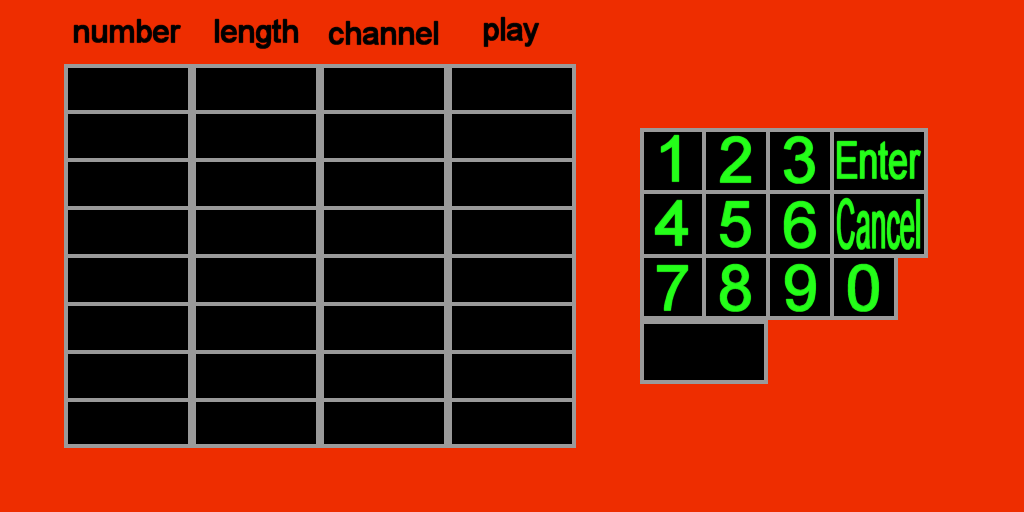
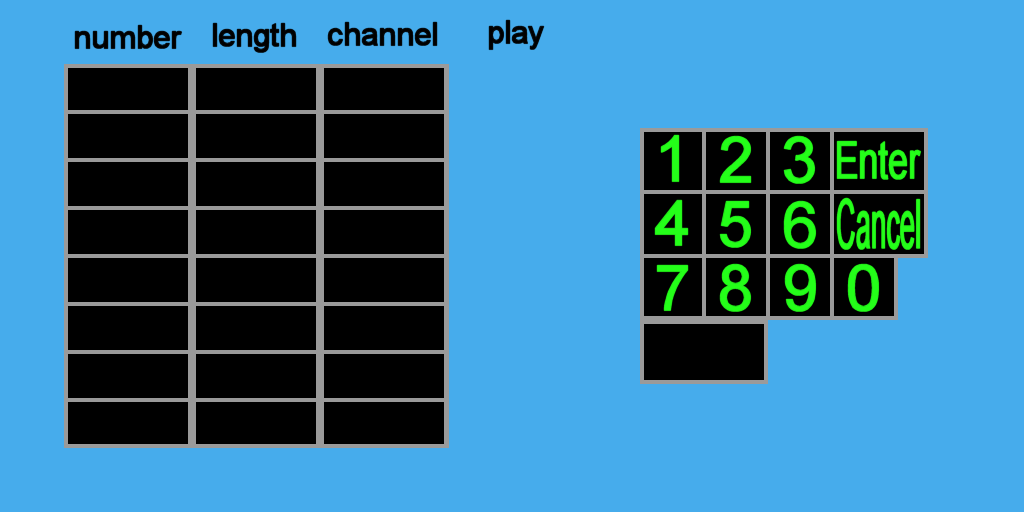
General improvements to the GUI

diff --git a/PythonUI/multigrid.py b/PythonUI/multigrid.py
@@ -1,6 +1,5 @@
 import os, pygame, __main__
 
-
 class GridTrack():
 
     def __init__(self):
@@ -11,8 +10,8 @@ class GridTrack():
         self.navButtonWide1, self.navButtonWide1rect = __main__.load_image('navButtonWide1.png','buttons')
         self.navButtonWide2, self.navButtonWide2rect = __main__.load_image('navButtonWide2.png','buttons')
         self.optionsbg, self.optionsbgrect           = __main__.load_image('optionsBG.png','backgrounds')
-        self.gobutton, self.gobuttonrect             = __main__.load_image('gobutton.png','buttons')
-        self.stopbutton, self.stopbuttonrect         = __main__.load_image('stopbutton.png','buttons')
+        self.gobutton, self.gobuttonrect             = __main__.load_image('optsButtonGreen.png','buttons')
+        self.stopbutton, self.stopbuttonrect         = __main__.load_image('optsButtonRed.png','buttons')
         
         self.trackgrid   = [[0 for row in range(8)] for col in range(16)]
         self.patterngrid = [0 for col in range(8)]
@@ -136,10 +135,10 @@ class GridTrack():
     def drawPatternSeq(self):
         for col in range(8):
             for row in range(8):
-                if (self.patterngrid[col]) == row:
-                    self.trackSurface.blit(self.button1, ((col * 64),(row * 64)))
-                else:
+                if (self.patterngrid[col]) == 7 - row:
                     self.trackSurface.blit(self.button2, ((col * 64),(row * 64)))
+                else:
+                    self.trackSurface.blit(self.button1, ((col * 64),(row * 64)))
 
     def drawPlayButton(self):
         buttonval = __main__.mainObj.menu.playingTracks[__main__.mainObj.menu.trackNo]
@@ -153,11 +152,11 @@ class GridTrack():
             if seqlength < self.patternSeqLength:
                 xval = ((seqlength * 64) + (8 * 64))
                 yval = (7 * 64)
-                self.trackSurface.blit(self.button1, (xval,yval))
+                self.trackSurface.blit(self.button2, (xval,yval))
             else:
                 xval = ((seqlength * 64) + (8 * 64))
                 yval = (7 * 64)
-                self.trackSurface.blit(self.button2, (xval,yval))
+                self.trackSurface.blit(self.button1, (xval,yval))
 
 
     def drawGridScreen(self):
@@ -183,8 +182,9 @@ class GridTrack():
         __main__.sendOSCMessage('/grid/track/edit/pattern_grid', data)
 
     def updatePatternSeq(self, col, row):
-        self.patterngrid[col] = row
+        self.patterngrid[col] = (7 - row)
         data = [col, (7 - row)]
+        print 7 - row
         __main__.sendOSCMessage('/grid/track/edit/pattern_seq', data)
 
     def updatePatternSeqLength(self, col):

diff --git a/PythonUI/TouchSeqGUI.py b/PythonUI/TouchSeqGUI.py
@@ -12,9 +12,11 @@ from pygame.compat import geterror
 class MainMenu():
 
     def __init__(self):
-        self.mainBG, self.mainBGrect = load_image('mainMenu.png','backgrounds')
-        self.gobutton, self.gobuttonrect = load_image('gobutton.png','buttons')
-        self.stopbutton, self.stopbuttonrect = load_image('stopbutton.png','buttons')
+        self.mainBG, self.mainBGrect            = load_image('mainMenu.png','backgrounds')
+        self.gobutton, self.gobuttonrect        = load_image('gobutton.png','buttons')
+        self.stopbutton, self.stopbuttonrect    = load_image('stopbutton.png','buttons')
+        self.mainPlay, self.mainPlayrect        = load_image('mainPlay.png','buttons')
+        self.mainStop, self.mainStoprect        = load_image('mainStop.png','buttons')
         
         self.playingTracks = [0 for notes in range(10)]
         self.bpm = 140
@@ -34,7 +36,7 @@ class MainMenu():
         self.trackNo = track
         if track < 7:
             sendOSCMessage('/grid/track_select', [track + 1])
-            if 444 < xval < 544:
+            if 471 < xval < 571:
                 if self.playingTracks[track] == 0:
                     self.playingTracks[track] = 1
                 else:
@@ -103,7 +105,7 @@ class MainMenu():
         self.mainSurface.blit(bpmtext, textpos)
         
         for tracks in range(10):
-            pos = (444, ((tracks *60) + 5))
+            pos = (471, ((tracks *60) + 5))
             if self.playingTracks[tracks] == 1:
                 self.mainSurface.blit(self.gobutton, pos)
             else:
@@ -111,9 +113,9 @@ class MainMenu():
             
         pos = (672, 448)
         if self.globalplay == 1:
-            self.mainSurface.blit(self.gobutton, pos)
+            self.mainSurface.blit(self.mainPlay, pos)
         else:
-            self.mainSurface.blit(self.stopbutton, pos)
+            self.mainSurface.blit(self.mainStop, pos)
 
 
 

diff --git a/PythonUI/curve.py b/PythonUI/curve.py
@@ -1,6 +1,5 @@
 import os, pygame, __main__, bresenhams
 
-
 class CurveTrack():
 
     def __init__(self):
@@ -100,14 +99,14 @@ class CurveTrack():
         
             buttonval = self.ccPlaying[ccnumber]
             if buttonval == 0:
-                self.trackSurface.blit(self.stopbutton, ((448 + 4),((ccnumber * 48) + 64)))
+                self.trackSurface.blit(self.stopbutton, (480,((ccnumber * 48) + 64)))
             elif buttonval == 1:
-                self.trackSurface.blit(self.gobutton, ((448 + 4),((ccnumber * 48) + 64)))
+                self.trackSurface.blit(self.gobutton, (480,((ccnumber * 48) + 64)))
 
         ccval = str(self.newValue)
         font = pygame.font.Font(self.fontName, 70)
         ccvaltext = font.render(ccval, 1, (255, 255, 255))
-        textpos = (650,(313))
+        textpos = (645,(313))
         self.trackSurface.blit(ccvaltext, textpos)
 
     def drawCurveScreen(self):
@@ -403,4 +402,3 @@ class CurveTrack():
             self.updateValue = 'none'
         else:
             self.inputMidiOptions(pos)
-
